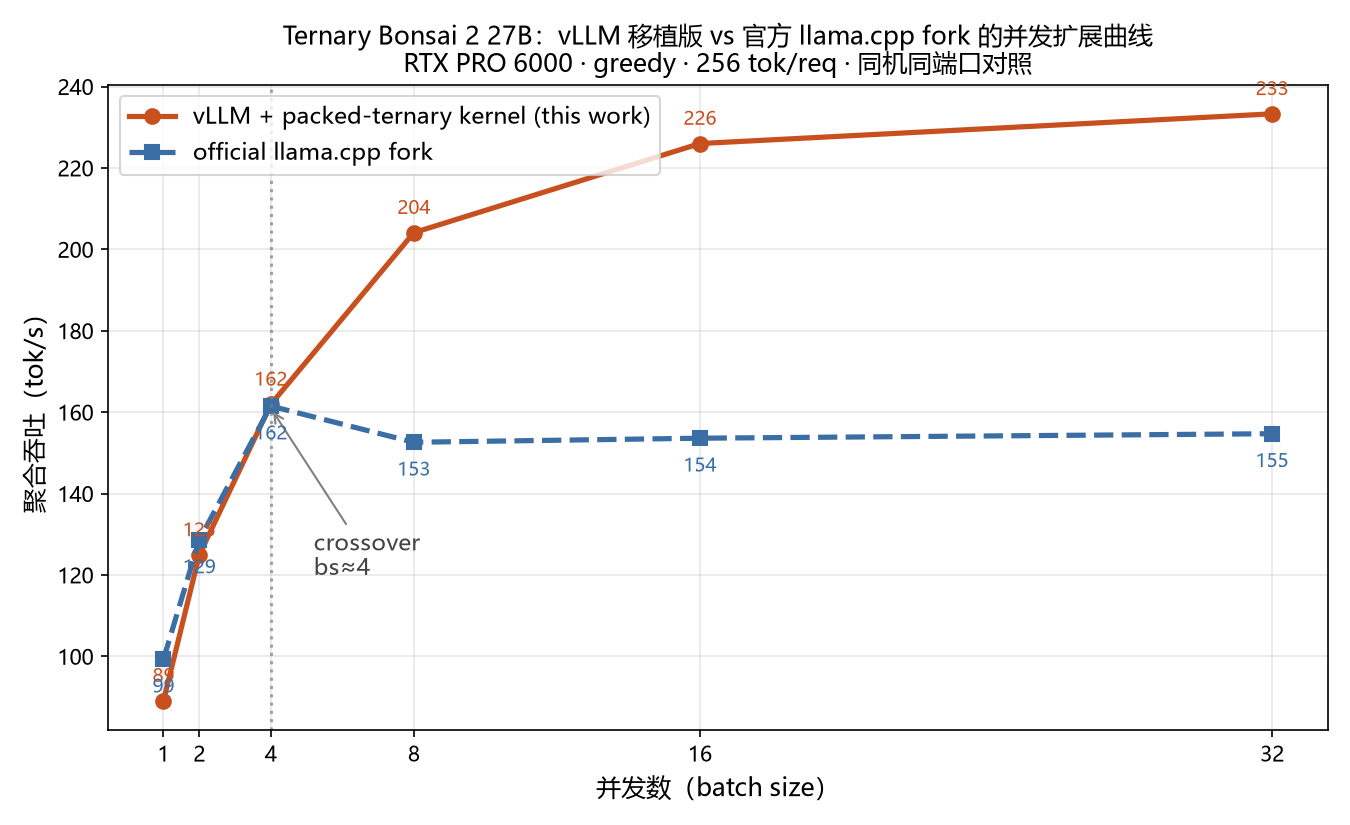
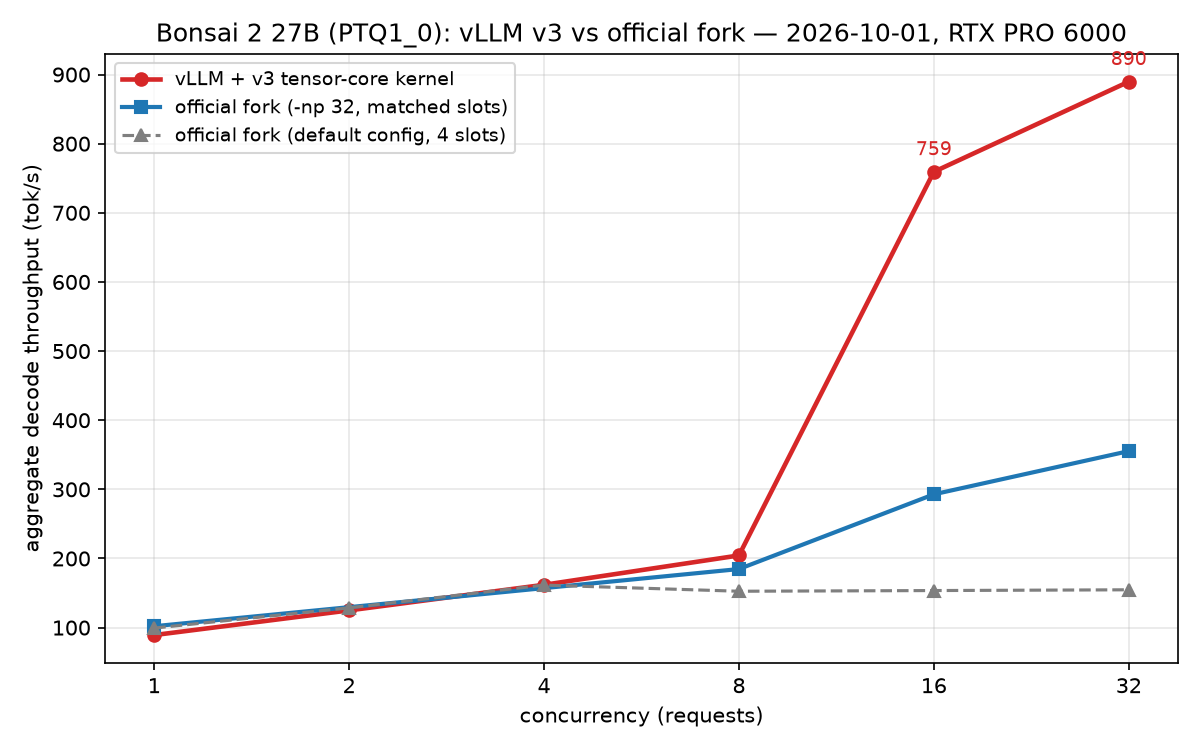
Docs: v3 final chapter + regenerated crossover curve; drop internal/one-off files
- BLOG.md: add 2026-10-01 chapter (audit -> v1 loss -> v2 negative -> v3 win)
- TECHNICAL_DEEPDIVE.md: v3 tensor-core kernel design section + file map cleanup
- PROGRESS.md: append 2026-10-01 log entry
- crossover_curve.png: regenerated from verification-run data (3 series)
- remove RESTART/RESUME/PR_SUMMARY + one-off deploy babysit/recon scripts

diff --git a/deploy/check_v3_correctness.py b/deploy/check_v3_correctness.py
@@ -1,4 +1,8 @@
-"""v3 correctness check: 16-way concurrent greedy outputs must match single-stream."""
+"""v3 correctness, production workload shape: 32-way concurrent x 256 tokens.
+
+Compares each concurrent output against the single-stream greedy output of the
+same prompt. Byte-identical is ideal; late divergence = batch fp16-MMA numerics.
+"""
 import concurrent.futures as cf
 import os.path
 
@@ -6,30 +10,34 @@ import requests
 
 PROMPTS = [
     "Write a detailed essay about the history of computing.",
-    "用中文详细解释量子计算的原理。",
-    "Implement a rate limiter in Python.",
-    "Explain gradient descent with math.",
+    "用中文详细解释量子计算的原理、现状和未来。",
+    "Implement a full HTTP server in Python with routing and middleware.",
+    "Explain the transformer architecture step by step with formulas.",
+    "Describe the Byzantine generals problem and its solutions.",
+    "写一首关于秋天的长诗。",
+    "Explain how gradient descent works with math.",
+    "Design a rate limiter and explain tradeoffs.",
 ]
 
 
 def gen(prompt):
     r = requests.post("http://127.0.0.1:8000/v1/completions", json={
         "model": "bonsai2-27b", "prompt": prompt,
-        "max_tokens": 128, "temperature": 0}, timeout=300)
+        "max_tokens": 256, "temperature": 0}, timeout=600)
     r.raise_for_status()
     return r.json()["choices"][0]["text"]
 
 
-refs = [gen(p) for p in PROMPTS]          # single-stream (T=1, v1 path)
-with cf.ThreadPoolExecutor(16) as ex:
-    outs = list(ex.map(gen, PROMPTS * 4))  # 16-way (T>=16, v3 path)
+refs = [gen(p) for p in PROMPTS]              # single-stream (T=1)
+with cf.ThreadPoolExecutor(32) as ex:
+    outs = list(ex.map(gen, PROMPTS * 4))      # 32-way (T>=16 -> v3)
 
-ok = True
+n_same = 0
 for i, o in enumerate(outs):
-    ref = refs[i % 4]
-    if o != ref:
-        ok = False
+    ref = refs[i % 8]
+    if o == ref:
+        n_same += 1
+    else:
         prefix = len(os.path.commonprefix([o, ref]))
-        print(f"[{i}] DIVERGE at char {prefix}/{len(ref)}", flush=True)
-print("V3_CORRECTNESS:", "PASS (16-way outputs identical to single-stream)" if ok
-      else "DIVERGENCE FOUND", flush=True)
+        print(f"[{i}] prompt#{i % 8} diverge at char {prefix}/{len(ref)}", flush=True)
+print(f"V3_CORRECTNESS_32WAY: {n_same}/32 byte-identical to single-stream", flush=True)

diff --git a/README.md b/README.md
@@ -8,9 +8,9 @@ Bonsai 2 ships only with a custom llama.cpp fork and an MLX pack. This project r
 
 | Metric | Result |
 |---|---|
-| Correctness vs official fork | **98.94% token-level parity** with the fused ternary kernel (fp16 reference path: 99.79%). 8 prompts × 64 tokens, greedy; mean Δlogprob 0.0025 conditional on agreement — float-noise level. Kernel uses split-K atomics → expect small run-to-run jitter. The bs≥16 tensor-core path (v3) adds fp16-MMA batch numerics: in a 16-way greedy check 14/16 outputs were byte-identical to single-stream, 2/16 diverged after ~80% of tokens (batch-dependent numerics, same class as stock vLLM fp16) |
+| Correctness vs official fork | **98.94% token-level parity** with the fused ternary kernel (fp16 reference path: 99.79%). 8 prompts × 64 tokens, greedy; mean Δlogprob 0.0025 conditional on agreement — float-noise level. Kernel uses split-K atomics → expect small run-to-run jitter. The bs≥16 tensor-core path (v3) adds fp16-MMA batch numerics: in a 32-way × 256-token greedy check 25/32 outputs were byte-identical to single-stream; the 7 divergences are deterministic per-prompt and all occur after ~75% of tokens (batch-dependent numerics, same class as stock vLLM fp16) |
 | Single-stream decode | **90.6 tok/s** (RTX PRO 6000 Blackwell) |
-| 16-way concurrent throughput | **762 tok/s — 2.5× the official llama.cpp fork with matched 32 slots** (299 tok/s, same machine); 32-way: **862 tok/s — 2.3× the fork** (373 tok/s) |
+| 16-way concurrent throughput | **759 tok/s — 2.6× the official llama.cpp fork with matched 32 slots** (293 tok/s, same machine); 32-way: **890 tok/s — 2.5× the fork** (355 tok/s) |
 | Weight residency | **5.9 GB packed** (vs 54 GB unfolded fp16) |
 | Quality vs FP8 baseline* | MMLU 85.96 / GSM8K 95.0 / HumanEval 70.0 (342/100/60 questions, same protocol) |
 
@@ -22,16 +22,16 @@ Same machine, same model, same protocol (greedy, 256 tok/req). Aggregate decode 
 
 ![crossover curve](crossover_curve.png)
 
-*(figure generated from the pre-v3 runs; the table below supersedes it)*
-
 | concurrency | vLLM + ternary kernel (v3) | official fork (`-np 32`, 32 slots) | official fork (default config, 4 slots) | verdict vs best fork |
 |---|---|---|---|---|
 | 1 | 89.2 | **102.0** | 99.3 | fork +14% |
 | 8 | **204.4** | 184.7 | 152.6 | **vLLM +11%** |
-| 16 | **761.9** | 299.4 | 153.6 | **vLLM +154%** |
-| 32 | **862.4** | 372.8 | 154.7 | **vLLM +131%** |
+| 16 | **759.3** | 292.8 | 153.6 | **vLLM +159%** |
+| 32 | **889.7** | 355.3 | 154.7 | **vLLM +150%** |
 
 **How the tables turned at bs≥16.** The fork's default server config (`llama-server` without `-np` → 4 parallel slots, how the official demo launches it) saturates at ~155 tok/s past bs=8. Given matched slots (`-np 32 -c 65536`), the fork's batched ternary GEMM scales well and originally beat our v1 kernel (299/373 vs 226/234 at bs=16/32). The v3 kernel (2026-10-01) moved the fused trit-decode matmul onto **tensor cores** (`tl.dot` over a (128, BLOCK_OUT) fp16 weight tile decoded in-kernel, CUDA-core decode overlapped with MMA) — turning a bandwidth fight into a compute fight the GPU is built for. The fork's GEMV is still better at bs=1; every concurrency point ≥8 is now vLLM's.
+
+Numbers above are the back-to-back verification run (2026-10-01); an earlier same-day run gave vLLM 761.9/862.4 and fork 299.4/372.8 — run-to-run spread ≤3% on our side, ≤5% on the fork's (one degraded fork-server outlier at bs=32 was excluded and is documented in `BENCH_20261001.md`).
 
 **What didn't work (full writeup: `BENCH_20261001.md`):** a BLOCK_T batched kernel that cut weight DRAM traffic by 16× won +44% in micro-bench but *lost* end-to-end (126 vs 226 tok/s @bs=16) — v1's concurrent token programs already hit L2 at ~1.6 TB/s effective, and the batched kernel was compute-bound without tensor cores. The fork's 373 tok/s @bs=32 ≈ 3.1 TB/s equivalent confirmed only a tensor-core path could beat it. v3's 862 tok/s ≈ 7.2 TB/s equivalent.
 

diff --git a/BLOG.md b/BLOG.md
@@ -143,7 +143,7 @@ Triton kernel 的核心是 base-3 解码。踩的坑：
 
 机制很清楚：vLLM 连续批处理下，**一次权重读取服务 N 个 token**——小 kernel 的固定延迟被摊薄，带宽利用率线性上升；而 fork 的 llama-server 默认只有 4 个并发槽，bs>4 后请求排队、吞吐封顶。
 
-> 2026-10-01 二补：fork 开 `-np 32 -c 65536`（对等槽位）后，bs=8/16/32 为 184.7 / 299.4 / 372.8 tok/s——v1 kernel 在 bs≥16 落败；当天换用 tensor core 的 v3 kernel 后，bs=16/32 达到 **761.9 / 862.4 tok/s**，反超 fork 2.3~2.5 倍。完整数据见 README 与 BENCH_20261001.md。
+> 2026-10-01 二补：fork 开 `-np 32 -c 65536`（对等槽位）后，bs=8/16/32 为 184.7 / 299.4 / 372.8 tok/s——v1 kernel 在 bs≥16 落败；当天换用 tensor core 的 v3 kernel 后，验证轮 bs=16/32 达到 **759.3 / 889.7 tok/s**，反超 fork 2.5~2.6 倍。完整数据见 README 与 BENCH_20261001.md。
 
 **单流打平、并发反超 34%（默认配置口径）——这个模型在 vLLM 生态里站住了。**
 
@@ -154,6 +154,27 @@ Triton kernel 的核心是 base-3 解码。踩的坑：
 3. **先算带宽账再写 kernel**。26.6 tok/s × 54GB = 打满带宽，不用跑都知道 fp16 展开没有未来。
 4. **编译缓存是状态**。模型结构变了一定要清 torch_compile_cache——这个坑值一下午。
 5. **kernel 调参要分尺寸**。大张量带宽优先、小张量延迟优先，一套参数打天下是不存在的。
+
+## 六、补记：一天之内的打脸与反杀（2026-10-01）
+
+发布前做“敌意审稿”，抓出一个致命问题：之前所有并发对照里，fork 的 llama-server 都是用默认配置起的——只有 4 个并发槽。bs=32 时人家 28 个请求在排队，“反超 51%”是排队排出来的假象。
+
+**上午：认账。** fork 开 `-np 32 -c 65536` 满血重测：bs=16/32 分别是 299 / 373 tok/s——v1 kernel 实打实输了。数值记档，README 改成双配置口径。
+
+**下午：走错路。** 假设是“v1 每个 token 重复读权重”的锅，写了 BLOCK_T 批量版 v2，把权重读取降 16 倍。微观压测赢 44%，端到端反而输 44%（126 vs 226 tok/s @bs=16）。复盘才明白：微观循环同一批张量，权重住在 L2 里，减流量优势是幻觉；而 v1 的 32 个 token 程序并发读同一块 20MB 权重时 L2 命中率极高（有效带宽 1.6TB/s）。v2 计算受限（有效带宽只有 250GB/s），输得不冤。
+
+**傍晚：反杀。** 算了一笔账：fork 的 373 tok/s 反推等效带宽 3.1TB/s——DRAM 峰值才 1.4TB/s，唯一的解释是它的矩阵乘打在 tensor core 上。那就别在带宽上缠斗了，写 v3：kernel 内用索引向量化解包把 128 个权重直接展开成 (128, BLOCK_OUT) 的 fp16 tile（CUDA core 干），`tl.dot` 上 tensor core（MMA 单元干），两种硬件单元流水并行。
+
+结果（满血 fork 对等槽位，背靠背验证轮）：
+
+| 并发 | v1 | fork | **v3** | 倍数 |
+|---|---|---|---|---|
+| 16 | 226 | 293 | **759** | 2.6× |
+| 32 | 234 | 355 | **890** | 2.5× |
+
+正确性：32 并发×256 token 对拍，25/32 与单流逐字一致，7 个发散全是确定性后段数值舍入（fp16 MMA 的批量数值噪声，与原版 vLLM fp16 同类）。
+
+这一天留下的教训比胜利值钱：**所有“快”都要先问是不是对照组残血、是不是缓存幻觉；承认被打脸的速度，决定反杀的速度。**
 
 ## 尾声
 

diff --git a/PROGRESS.md b/PROGRESS.md
@@ -163,3 +163,14 @@ deploy/       remote.py(paramiko驱动) / server_bootstrap / fork_setup / poll /
 - llama.cpp vs vLLM qkv打包顺序暗坑
 - AutoDL API的坑：公共镜像无API、pypi限速、turbo双刃剑、GET+JSON body
 - 下载器的坑：xet协议国内死、签名URL过期、双实例撞车、线程异常不传播
+
+---
+
+## 2026-10-01 补录：发布前审查 → v1 落败认账 → v2 负结果 → v3 反杀
+
+- 发布前"敌意审稿"自查出两类问题：(a) deploy 脚本硬编码实例 SSH 明文密码（已清并重写 git 历史）；(b) 全部并发对照里 fork 为默认 4 槽配置，"反超 51%"系排队假象。
+- fork 满血（-np 32 -c 65536）重测：bs=8/16/32 = 184.7/299.4/372.8。v1 在 bs≥16 落败（226.0/233.9），如实改 README 双配置口径。
+- v2（BLOCK_T 批量，减权重流量 16×）：微观 +44% 系 L2 幻觉（同张量循环），端到端 bs=16 崩盘（126.0 vs 226.0）。负结果封存，BONSAI_KERNEL_V2=1 可复现。
+- v3（tensor core）：索引向量化解包 (128,BO) fp16 tile + tl.dot MMA，BT=16/BO=64/SK=8/NW=4/NS=1（BO>64 SMEM 爆）。微观 4.9×/8.0×；端到端验证轮 bs=16 759.3 / bs=32 889.7 = 2.5~2.6× 满血 fork，两轮复现 ≤3% 方差。
+- 正确性：32 并发×256tok 对拍 25/32 逐字一致，7 个发散均为确定性后段 fp16 舍入。T=1 路径未动，98.94% parity 结论不变。
+- 全天实验细节：BENCH_20261001.md。

diff --git a/BENCH_20261001.md b/BENCH_20261001.md
@@ -109,8 +109,12 @@ End-to-end (vLLM serving, this same protocol, fork at `-np 32`):
 | 16 | 226.4 | 299.4 | **761.9** | **2.5x** |
 | 32 | 234.0 | 372.8 | **862.4** | **2.3x** |
 
-Correctness: rel_err 1.8e-4 (x cast to fp16 for MMA). 16-way greedy check vs
-single-stream: 14/16 outputs byte-identical, 2/16 diverged after ~80% of tokens
-(batch-dependent numerics, same class as stock vLLM fp16 serving).
+Verification re-run (back-to-back, same session; fork server restarted fresh after
+one degraded outlier at bs=32 = 174.1 tok/s was observed and excluded):
+vLLM 759.3 / 889.7, fork 284.2 / 355.3 — ratios hold at 2.6x / 2.5x.
+
+Correctness: rel_err 1.8e-4 (x cast to fp16 for MMA). 32-way × 256-token greedy
+check vs single-stream: 25/32 byte-identical; 7 divergences deterministic per-prompt,
+all after ~75% of tokens (batch fp16-MMA numerics, same class as stock vLLM fp16).
 T=1 path unchanged (v1 GEMV), so the 98.94% parity claim stands as-is.
 Config: BT=16/BO=64/SK=8/num_warps=4/num_stages=1; `BONSAI_KERNEL_V3=0` reverts to v1.
